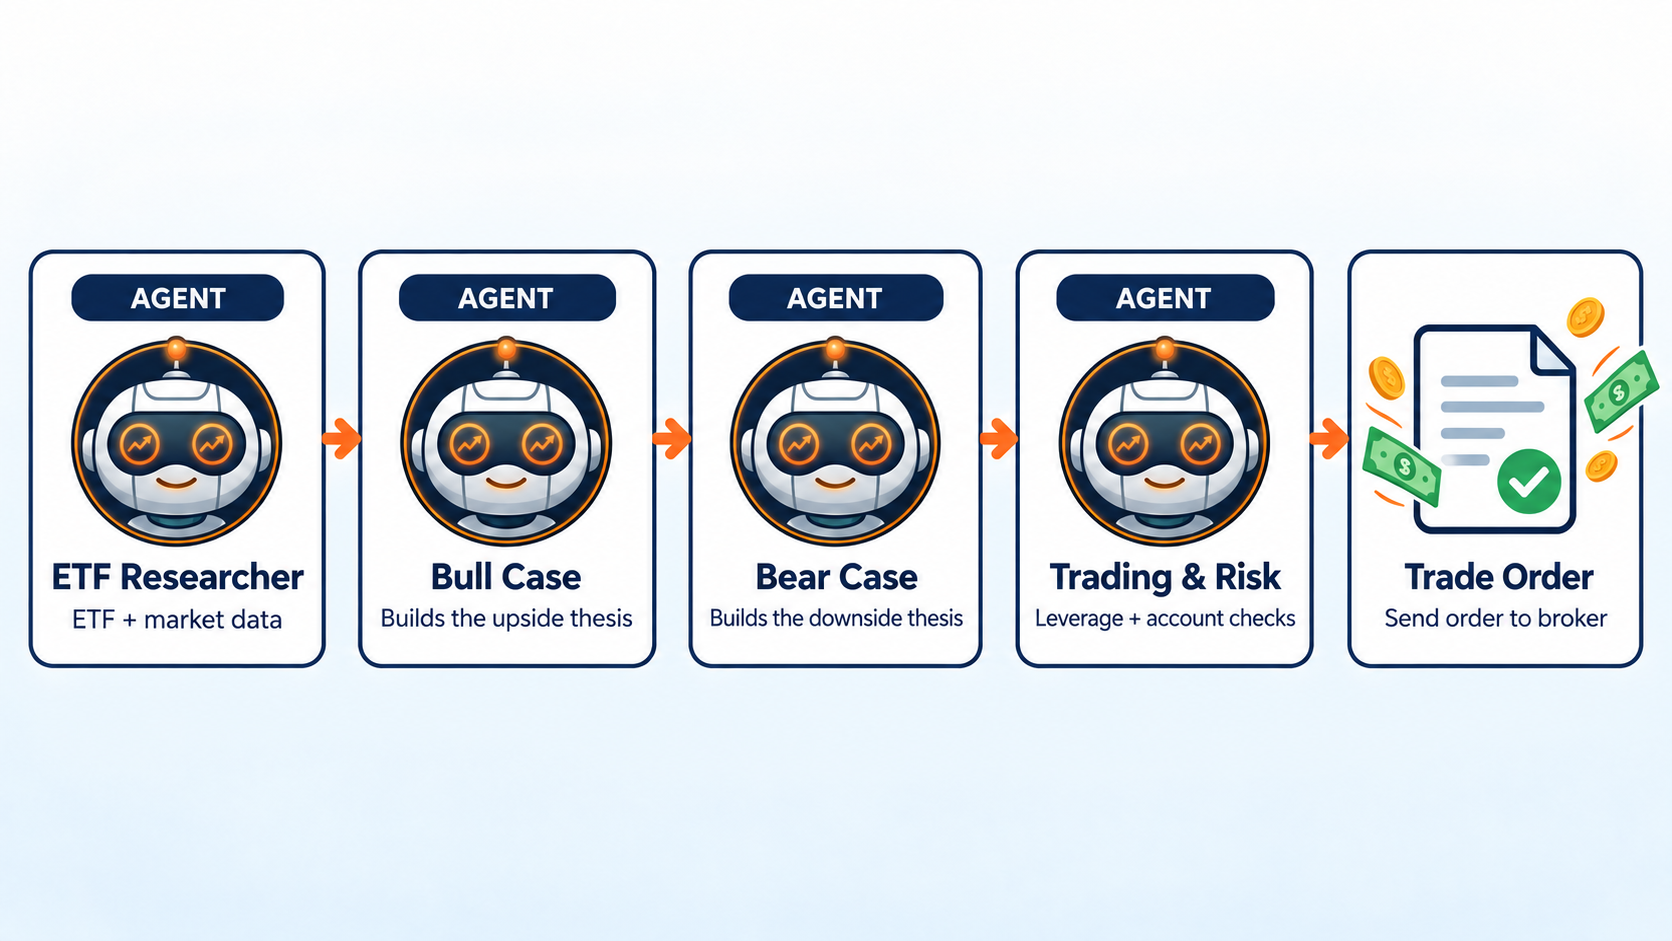
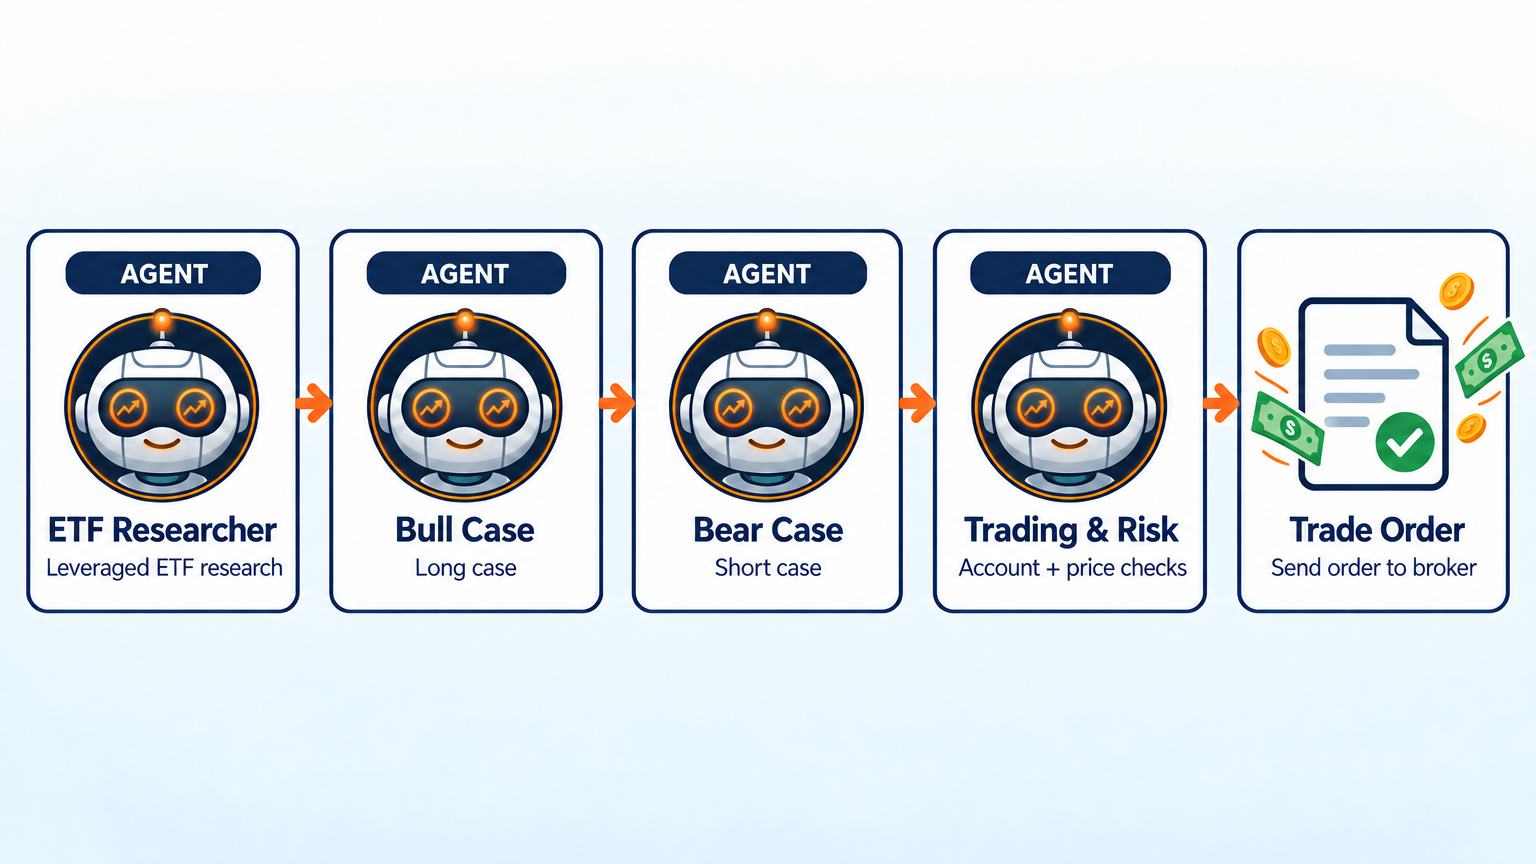
docs: correct workflow spelling and public disclosure wording
Regenerate the VWAP and leveraged-ETF diagrams so Researcher is spelled correctly, and state that official congressional filings are public rather than a licensed feed.

diff --git a/lumibot/example_strategies/ai_congress_disclosures.py b/lumibot/example_strategies/ai_congress_disclosures.py
@@ -1,7 +1,7 @@
 """Point-in-time congressional-disclosure AI strategy example.
 
-The bundled records are frozen demonstration fixtures, not a live commercial
-data feed. Use a licensed source before publishing or monetizing live results.
+The bundled records are a frozen synthetic demo, not a real congressional
+filing. Official House and Senate periodic transaction reports are public.
 Congressional trades may be disclosed weeks after execution; the backtest makes
 records visible on ``ReportDate``, never ``TransactionDate``.
 """

diff --git a/lumibot/components/disclosure_signals.py b/lumibot/components/disclosure_signals.py
@@ -91,7 +91,7 @@ def normalize_congress_disclosure(record: dict[str, Any]) -> dict[str, Any] | No
         "amendment": bool(record.get("Amendment") or record.get("amendment")),
         "source": record.get("source") or "congress_disclosure",
         "source_url": record.get("SourceUrl") or record.get("source_url"),
-        "data_rights": record.get("data_rights") or "fixture_or_licensed_source_required",
+        "data_rights": record.get("data_rights") or "official_public_filing_or_fixture",
     }
 
 

diff --git a/docs/research/2026-09-21_sunburst-workflow-artwork-receipt.md b/docs/research/2026-09-21_sunburst-workflow-artwork-receipt.md
@@ -15,10 +15,10 @@ Design contract: no large image title, no source/output cards, mascot only on ag
[12 lines of base64/hex data omitted]

diff --git a/docsrc/agents_example_congress_disclosures.rst b/docsrc/agents_example_congress_disclosures.rst
@@ -10,8 +10,8 @@ point-in-time research packet, then gives that packet to a dedicated trading
 and risk agent. It is a disclosure-following example, not a claim that the
 member traded on the publication date or that copying the trade is profitable.
 
-Availability and licensing
---------------------------
+Availability
+------------
 
 The source ``TransactionDate`` describes when the reported transaction
 occurred. ``ReportDate`` (normalized as ``published_at``) is when the example
@@ -19,9 +19,14 @@ first makes the record visible. Federal disclosure rules may permit a report
 as late as **45 days** after the transaction, so this is not a low-latency
 signal and the example must never backdate availability to ``TransactionDate``.
 
-The repository includes a small frozen fixture only for deterministic testing.
-Use an authorized, licensed data source and follow its redistribution terms
-before operating or publishing a live/commercial Congress strategy.
+House and Senate periodic transaction reports are public filings. Official
+instructions say an option row should name the underlying security, put or
+call, strike, and expiration. Real filings are PDFs, and some rows leave the
+contract fields incomplete. A live bot should read the official filing and
+skip any option it cannot identify.
+
+The repository includes a small frozen synthetic fixture only for
+deterministic testing. That fixture is not Nancy Pelosi's real trade history.
 
 Architecture
 ------------

diff --git a/docsrc/agents_examples.rst b/docsrc/agents_examples.rst
@@ -148,7 +148,7 @@ Public disclosures and browser automation
    * - :doc:`Congress disclosures <agents_example_congress_disclosures>`
      - Research a newly public congressional filing and hand evidence to a dedicated trading/risk agent.
      - ``ReportDate`` or source publication time, never the earlier transaction date.
-     - Frozen fixtures and point-in-time unit tests; use a licensed source for live or commercial use.
+     - Frozen synthetic fixture and point-in-time tests. Official House and Senate filings are public.
    * - :doc:`SEC Form 4 insider filings <agents_example_sec_insider_filings>`
      - Distinguish open-market transactions from grants, gifts, exercises, derivatives, and amendments.
      - SEC acceptance/publication time, never the transaction date alone.
